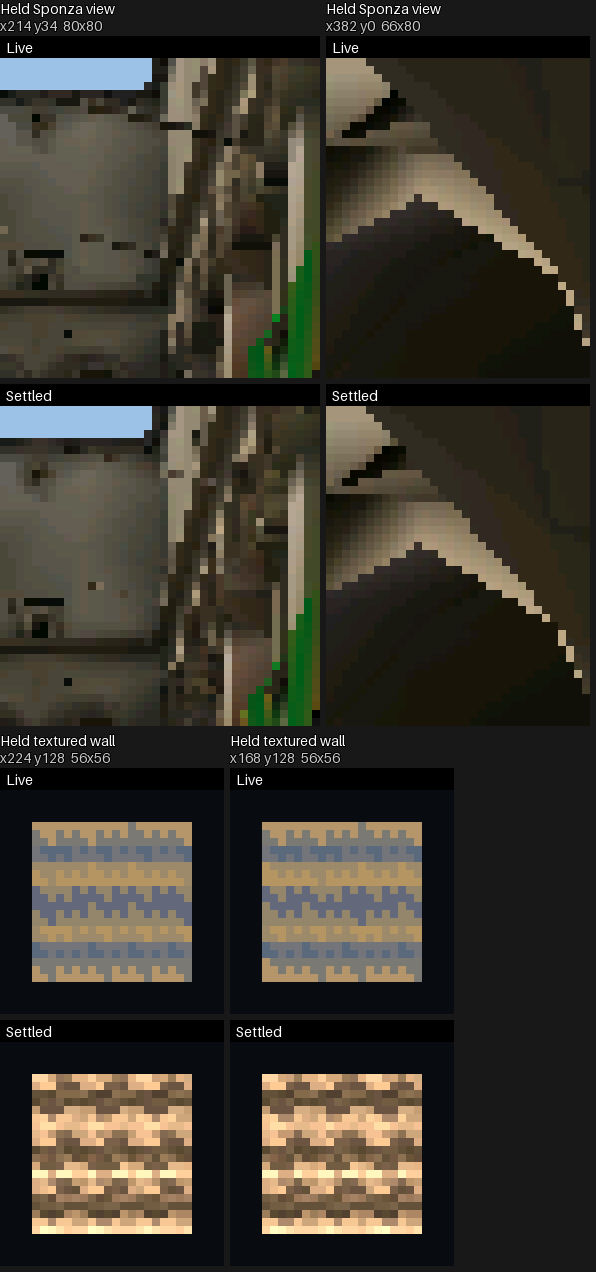
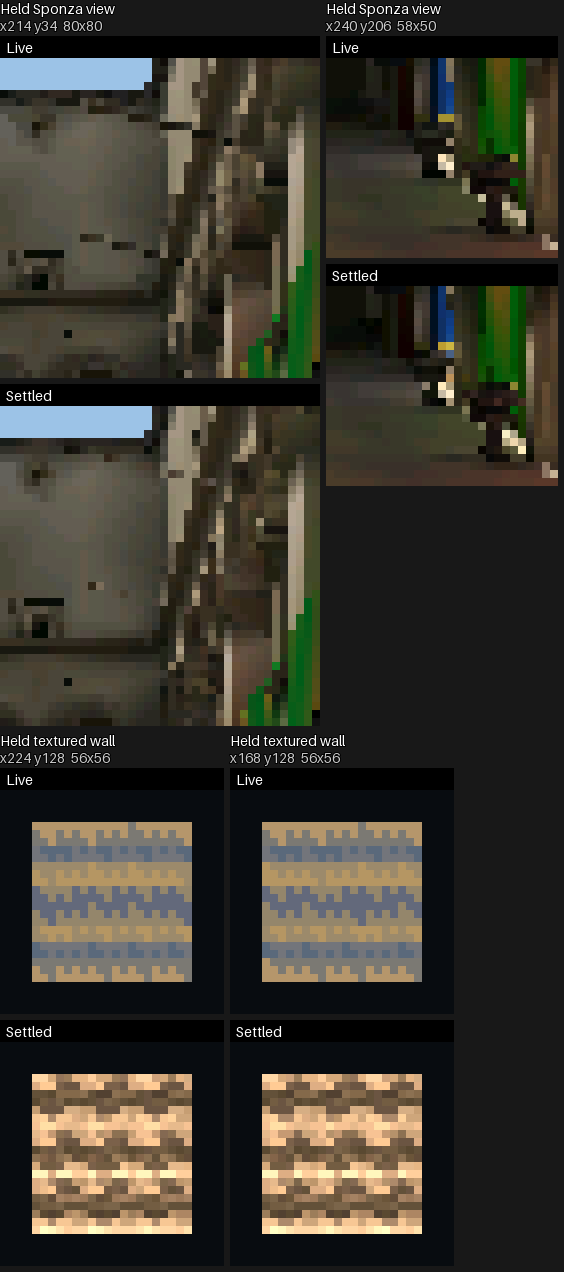
render: simplify settle test and compare matching frames (3d6mr)

diff --git a/launcher/test/suites/suite_render_settle.c b/launcher/test/suites/suite_render_settle.c
@@ -528,6 +528,30 @@ slide(raster_rig_t* r, int i) {
 }
 
 static void
+assert_partial_redraw_bands(bool levels) {
+    const raster_t* raster = &f->c[LIVE].raster;
+    bool partial_band = false;
+    int live_bands = 0;
+    int refined_bands = 0;
+    for (int b = 0; b < RENDER_SETTLE_BANDS; b++) {
+        const int first = b * H / RENDER_SETTLE_BANDS;
+        const int end = (b + 1) * H / RENDER_SETTLE_BANDS;
+        const bool draws_live = first < raster->end_row && end > raster->first_row;
+        partial_band |= draws_live && (raster->first_row > first || raster->end_row < end);
+        live_bands += draws_live;
+        refined_bands += !draws_live;
+        TEST_ASSERT_EQUAL(!draws_live, f->c[0].settle.refined[b]);
+        TEST_ASSERT_EQUAL_MEMORY(&f->picture[draws_live ? LIVE : 1][first * W], &f->picture[0][first * W],
+                                 (end - first) * W * sizeof(uint16_t));
+    }
+    if (levels) {
+        TEST_ASSERT_TRUE(partial_band);
+    }
+    TEST_ASSERT_GREATER_THAN_INT(0, live_bands);
+    TEST_ASSERT_GREATER_THAN_INT(0, refined_bands);
+}
+
+static void
 test_changed_rows_stay_live_and_partial_redraw_survives_settling(void) {
     for (int levels = 0; levels <= 1; levels++) {
         raster_rig_t* r = settle_held(RENDER_SETTLE_FRAME_US_MAX, levels != 0, false);
@@ -546,25 +570,7 @@ test_changed_rows_stay_live_and_partial_redraw_survives_settling(void) {
                 assert_picture(LIVE);
                 TEST_ASSERT_EQUAL_MEMORY(raster_depth(raster), raster_depth(&f->c[0].raster), sizeof f->picture[0]);
             }
-            bool partial_band = false;
-            int live_bands = 0;
-            int refined_bands = 0;
-            for (int b = 0; b < RENDER_SETTLE_BANDS; b++) {
-                const int first = b * H / RENDER_SETTLE_BANDS;
-                const int end = (b + 1) * H / RENDER_SETTLE_BANDS;
-                const bool draws_live = first < raster->end_row && end > raster->first_row;
-                partial_band |= draws_live && (raster->first_row > first || raster->end_row < end);
-                live_bands += draws_live;
-                refined_bands += !draws_live;
-                TEST_ASSERT_EQUAL(!draws_live, f->c[0].settle.refined[b]);
-                TEST_ASSERT_EQUAL_MEMORY(&f->picture[draws_live ? LIVE : 1][first * W], &f->picture[0][first * W],
-                                         (end - first) * W * sizeof(uint16_t));
-            }
-            if (levels) {
-                TEST_ASSERT_TRUE(partial_band);
-            }
-            TEST_ASSERT_GREATER_THAN_INT(0, live_bands);
-            TEST_ASSERT_GREATER_THAN_INT(0, refined_bands);
+            assert_partial_redraw_bands(levels != 0);
         }
         cleanup();
     }

diff --git a/launcher/main/apps/render_lab/tools/README.md b/launcher/main/apps/render_lab/tools/README.md
@@ -284,8 +284,7 @@ measure the default settle hold plus `RENDER_SETTLE_BANDS` frames.
 
 The settle preset pauses its camera and samples the same pose throughout.
 Its `render.partial_redraw` setting enables kept rows even in the perf suite.
-The comparison pairs the live and settled pictures for the textured wall and
-for a held Sponza view with LOD groups.
+Both columns capture frame 38, with settle disabled in the Live column.
 
 ![Live and settled Sponza and textured planes, with amplified difference](../../../../../docs/images/render/settle.png)
 
@@ -293,10 +292,11 @@ for a held Sponza view with LOD groups.
 
 ```sh
 launcher/main/apps/render_lab/tools/render_lab_render_host.sh --build-only -o /tmp/settle
-/tmp/settle/render_lab_render --quarter 1 --no-hud --scene stress-settle --frames 1 -o /tmp/settle/live.ppm
+/tmp/settle/render_lab_render --quarter 1 --no-hud --scene stress-settle --frames 38 \
+    --live-tune render.settle_frame_us=0 -o /tmp/settle/live.ppm
 /tmp/settle/render_lab_render --quarter 1 --no-hud --scene stress-settle --frames 38 -o /tmp/settle/settled.ppm
 /tmp/settle/render_lab_render --quarter 1 --no-hud --scene sponza-fitted-full --console '0:pose 0' \
-    --tune render.partial_redraw=1 --tune render.settle_frame_us=1 --frames 1 -o /tmp/settle/sponza-live.ppm
+    --tune render.partial_redraw=1 --tune render.settle_frame_us=0 --frames 38 -o /tmp/settle/sponza-live.ppm
 /tmp/settle/render_lab_render --quarter 1 --no-hud --scene sponza-fitted-full --console '0:pose 0' \
     --tune render.partial_redraw=1 --tune render.settle_frame_us=1 --frames 38 -o /tmp/settle/sponza-settled.ppm
 python launcher/tools/render/render_compare.py --out docs/images/render/settle.png \
